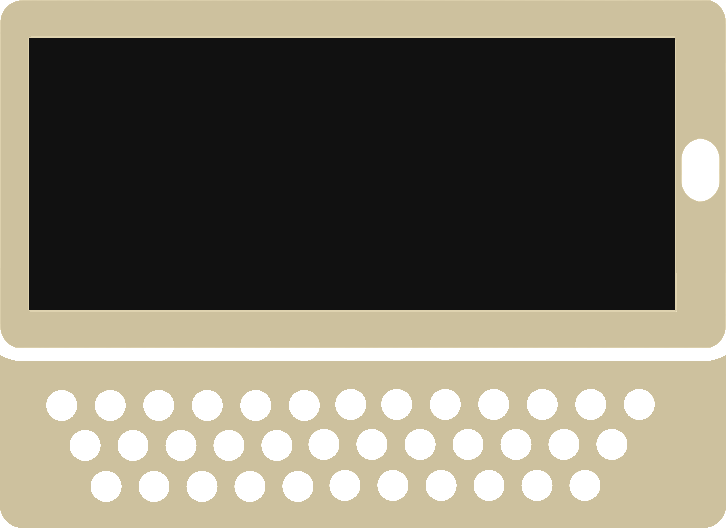
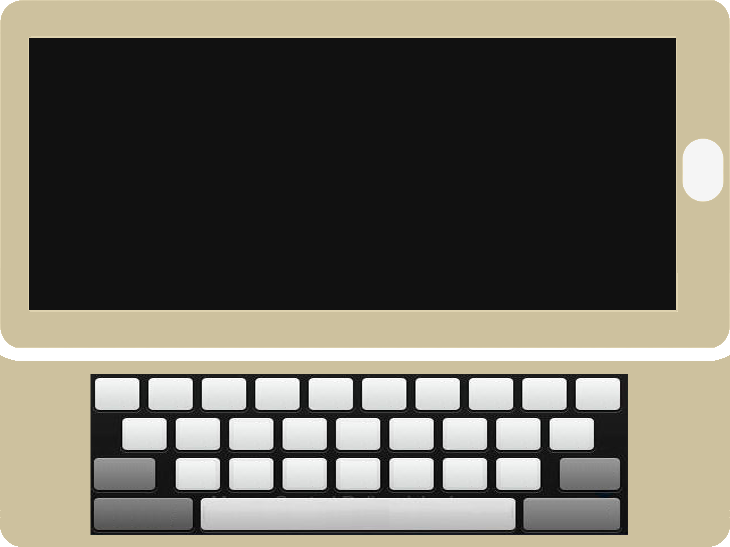
Updated the MobileDevice.png

Changed region(s): [[0.0, 0.6061, 1.0, 1.0], [0.0303, 0.0606, 1.0, 0.6061]]

diff --git a/EM.js b/EM.js
@@ -61,7 +61,7 @@ PropData.parsePropData=function(a,c){var b=0;a.mapWidth=-1;for(var d="",e=c.spli
 e+="Each line in the file must be the exact same length.";a.textAreaBox.dumpError(e);break}f=f.toLowerCase();d+=f}}console.log("num lines in map file is: "+b);b!=a.mapHeight&&(e="The number of lines in the file '"+a.PROP_DATA_FILE+"' doesn't match the ",a.textAreaBox.dumpError(e+"number of lines in the wall file ."));-1!=a.mapWidth&&(a.mapHeight=b,a.propData=d.split(""),PropData.setAllTimeHighImageNum(a))};
 PropData.setAllTimeHighImageNum=function(a){for(var c=0;c<a.propData.length;c++){var b=MathUtils.base36ToBase10(a.propData[c]);a.numPropImgs=Math.max(b,a.numPropImgs)}console.log("PropData.js: number of prop images expected is: "+a.numPropImgs)};PropData.isLineLengthGood=function(a){return 16!=a&&32!=a&&64!=a&&128!=a&&256!=a?(a="The length of the first line in file '"+that.PROP_DATA_FILE+"' is "+a+".",that.textAreaBox.dumpError(a+"Line length must be 16, 32, 64, 128, or 256."),!1):!0};if(null==Maze||"object"!=typeof Maze)var Maze={};
 Maze=function(a,c,b,d,e,g,f,h,k){this.canvasContext=a;this.textAreaBox=c;this.mapData=b;this.propData=d;this.mazeConfig=e;this.questions=g;this.questionPosData=f;this.background=h;this.landscape=k;this.trig=new Trig;this.curDest=this.mazeConfig.advanceToDest(0);this.playerX=this.curDest.xPos;this.playerY=this.curDest.yPos;this.playerArc=this.curDest.angle;this.background.setBackgroundFromDest(this.mazeConfig.document,this.mazeConfig.mazeId,this.curDest);this.landscape.setLandscapeFromDest(this.mazeConfig.document,
-this.mazeConfig.mazeId,this.curDest);this.overlay=new Overlay(a);this.memPixels=this.canvasContext.createImageData(MazeGlobals.PROJECTIONPLANEWIDTH,MazeGlobals.PROJECTIONPLANEHEIGHT);this.setPlayerPos()};Maze.prototype.WALL_HEIGHT=64;Maze.prototype.trig=null;Maze.prototype.curDest=null;Maze.prototype.playerX=130;Maze.prototype.playerY=130;Maze.prototype.playerArc=0;Maze.prototype.playerDistanceToTheProjectionPlane=277;Maze.prototype.playerHeight=32;Maze.prototype.playerSpeed=16;
+this.mazeConfig.mazeId,this.curDest);this.overlay=new Overlay(a);this.memPixels=this.canvasContext.createImageData(MazeGlobals.PROJECTIONPLANEWIDTH,MazeGlobals.PROJECTIONPLANEHEIGHT);this.setPlayerPos()};Maze.prototype.WALL_HEIGHT=64;Maze.prototype.trig=null;Maze.prototype.curDest=null;Maze.prototype.playerX=130;Maze.prototype.playerY=130;Maze.prototype.playerArc=0;Maze.prototype.playerDistanceToTheProjectionPlane=277;Maze.prototype.playerHeight=32;Maze.prototype.playerSpeed=20;
 Maze.prototype.projectionPlaneYCenter=MazeGlobals.PROJECTIONPLANEHEIGHT/2;Maze.prototype.propHitItems=[];Maze.prototype.clipper=[];Maze.prototype.playerXDir=0;Maze.prototype.playerYDir=0;Maze.prototype.curTrap=null;Maze.prototype.SLICE_WIDTH=1;Maze.prototype.mapData=null;Maze.prototype.propData=null;Maze.prototype.questions=null;Maze.prototype.questionPosData=null;Maze.prototype.mazeConfig=null;Maze.prototype.canvasContext=null;Maze.prototype.textAreaBox=null;Maze.prototype.memPixels=null;
 Maze.prototype.background=null;Maze.prototype.overlay=null;Maze.prototype.landscape=null;Maze.prototype.curQuestion="0";Maze.prototype.setPixel=function(a,c,b,d,e){null!=this.memPixels&&(a=4*(a+c*this.memPixels.width),this.memPixels.data[a+0]=b,this.memPixels.data[a+1]=d,this.memPixels.data[a+2]=e,this.memPixels.data[a+3]=255)};
 Maze.prototype.castRayForHorizHit=function(a){var c,b,d=0,e=0;c=WallHitItemConsts.BOTTOM_SIDE_HIT;a>this.trig.ANGLE0&&a<this.trig.ANGLE180?(d=(this.playerY>>MazeGlobals.TILE_SIZE_SHIFT<<MazeGlobals.TILE_SIZE_SHIFT)+MazeGlobals.TILE_SIZE,e=this.playerX+(d-this.playerY)*this.trig.iTanTable[a],b=MazeGlobals.TILE_SIZE):(c=WallHitItemConsts.TOP_SIDE_HIT,d=this.playerY>>MazeGlobals.TILE_SIZE_SHIFT<<MazeGlobals.TILE_SIZE_SHIFT,e=this.playerX+(d-this.playerY)*this.trig.iTanTable[a],b=-MazeGlobals.TILE_SIZE,

diff --git a/Maze.html b/Maze.html
@@ -36,8 +36,8 @@
                 position: relative;
                 top: 25px;
                 left: 40px;
-                width: 726px;
-                height: 528px;
+                width: 730px;
+                height: 547px;
                 border: 0px solid #000;
                 background-image: url("MobileDevice.png");
             }
@@ -74,7 +74,8 @@
         </script>
     </head>
 
-    <body onload="changeMaze()">        <section>
+    <body onload="changeMaze()">
+        <section>
             <span>Id: <input id="mazeId" type="text" size="12" value="q2vp7kqtwk"/> <input type="button" value="Change" onclick="javascript:changeMaze();"></span>
             <div id="mobileOuterDiv">
                 <div id="mobileInnerDiv">

diff --git a/MazeOpt.html b/MazeOpt.html
@@ -11,8 +11,8 @@
             position: relative;
             top: 25px;
             left: 40px;
-            width: 726px;
-            height: 528px;
+            width: 730px;
+            height: 547px;
             border: 0px solid #000;
             background-image: url("MobileDevice.png");
         }
@@ -25,7 +25,6 @@
             background-color: #666
         }
     </style>
-
 
     <script type="text/javascript">
         var intervalId = null;

diff --git a/Maze.js b/Maze.js
@@ -62,7 +62,7 @@ Maze.prototype.playerArc = 0;   // player's current angle he/she is facing
 // players parameters
 Maze.prototype.playerDistanceToTheProjectionPlane = 277;
 Maze.prototype.playerHeight = 32;
-Maze.prototype.playerSpeed = 16;
+Maze.prototype.playerSpeed = 20;
 Maze.prototype.projectionPlaneYCenter = MazeGlobals.PROJECTIONPLANEHEIGHT / 2;
 
 Maze.prototype.propHitItems = [];
